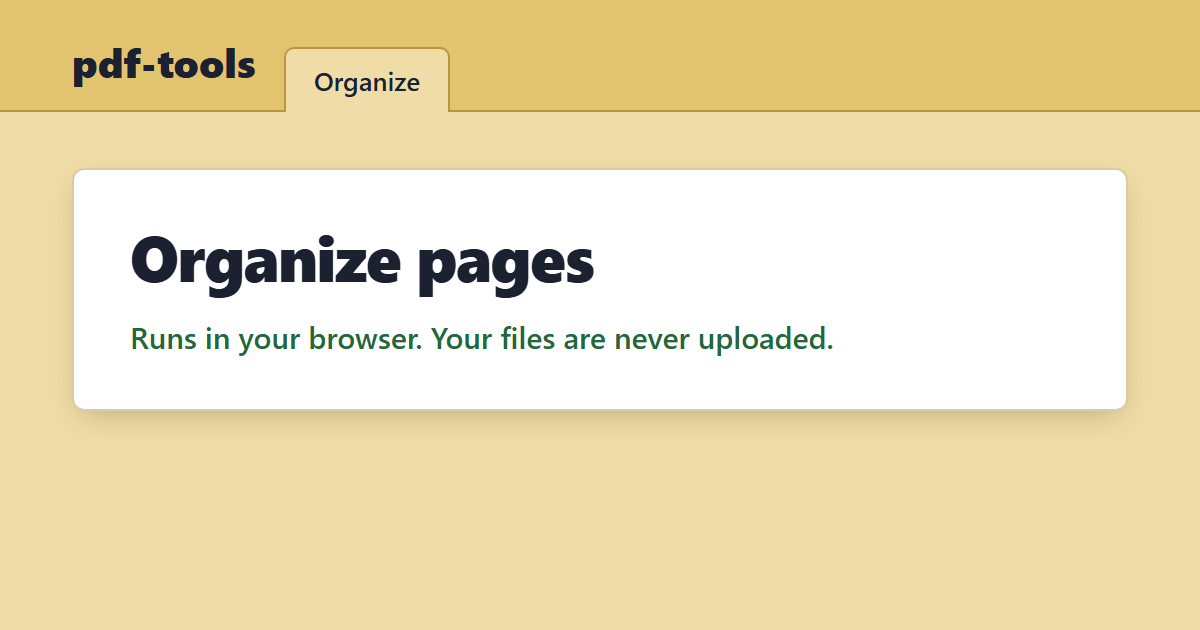
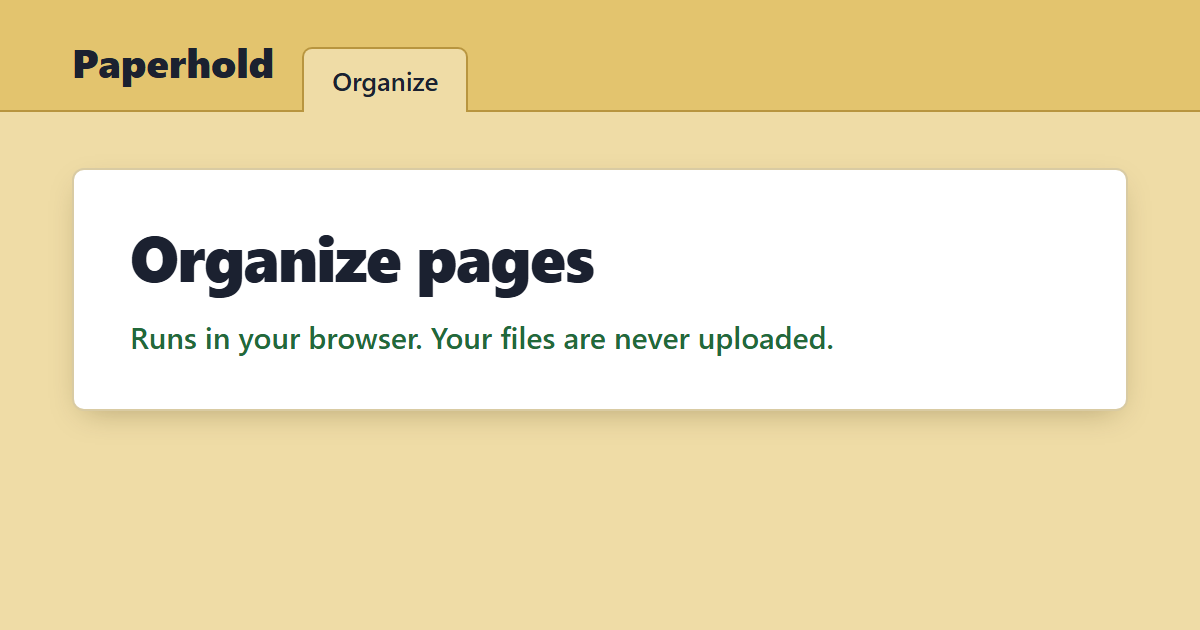
Name the product Paperhold (paperhold.app)
Fill in the launch config: name, production origin, public repo URL and
contact addresses. Rename the Cloudflare Pages project, update user-facing
docs, and regenerate icons, social preview images and screenshots.

`pnpm check:launch` now reports "Launch config OK". The placeholder test
now checks detection with a fixture and asserts the shipped config has
none left.

Changed region(s): [[0.0617, 0.0603, 0.4008, 0.181]]

diff --git a/apps/web/site.config.test.ts b/apps/web/site.config.test.ts
@@ -29,19 +29,18 @@ describe('site config', () => {
   });
 
   it('lists the placeholders that must be replaced before launch', () => {
-    expect(placeholders(SITE_CONFIG)).toEqual([
-      'url',
-      'repoUrl',
-      'contact.security',
-      'contact.conduct',
-    ]);
     expect(
       placeholders({
         ...SITE_CONFIG,
-        url: 'https://pdf.real.org',
-        repoUrl: 'https://github.com/real/pdf',
-        contact: { security: 'sec@real.org', conduct: 'coc@real.org' },
+        url: 'https://pdf-tools.example',
+        repoUrl: 'https://github.com/OWNER/pdf-tools',
+        contact: { security: 'security@pdf-tools.example', conduct: 'conduct@pdf-tools.example' },
       }),
-    ).toEqual([]);
+    ).toEqual(['url', 'repoUrl', 'contact.security', 'contact.conduct']);
+  });
+
+  it('ships the real Paperhold config with no placeholders left', () => {
+    expect(placeholders(SITE_CONFIG)).toEqual([]);
+    expect(resolveSite({}).url).toBe('https://paperhold.app');
   });
 });

diff --git a/apps/web/site.config.ts b/apps/web/site.config.ts
@@ -28,13 +28,13 @@ export interface SiteConfig {
 }
 
 export const SITE_CONFIG: SiteConfig = {
-  name: 'pdf-tools', // PLACEHOLDER: product name
+  name: 'Paperhold',
   tagline: 'Free PDF tools that never upload your files.',
-  url: 'https://pdf-tools.example', // PLACEHOLDER: production origin
-  repoUrl: 'https://github.com/OWNER/pdf-tools', // PLACEHOLDER: public repository
+  url: 'https://paperhold.app',
+  repoUrl: 'https://github.com/AsaPefferman-UI/paperhold',
   contact: {
-    security: 'security@pdf-tools.example', // PLACEHOLDER
-    conduct: 'conduct@pdf-tools.example', // PLACEHOLDER
+    security: 'security@paperhold.app',
+    conduct: 'conduct@paperhold.app',
   },
   // Analytics are OFF unless you opt in. To enable Cloudflare Web Analytics:
   //   analytics: { provider: 'cloudflare', token: '<beacon token>' },

diff --git a/README.md b/README.md
@@ -1,4 +1,4 @@
-# pdf-tools
+# Paperhold
 
 Free, open-source PDF tools that run **entirely in your browser**. Merge, split, compress,
 convert, sign, and OCR PDFs without installing anything and without uploading your files to
@@ -6,8 +6,8 @@ anyone, including us.
 
 ![The Merge tool with two PDFs ready to combine](docs/screenshot-merge.png)
 
-> `pdf-tools` is a working name. To rename or re-domain the site, edit
-> `apps/web/site.config.ts` (one file) and follow [docs/LAUNCH.md](docs/LAUNCH.md).
+> Live at [paperhold.app](https://paperhold.app). Forks can rename or re-domain the site by
+> editing `apps/web/site.config.ts` (one file); see [docs/LAUNCH.md](docs/LAUNCH.md).
 
 ## Why you can trust it with private documents
 
@@ -31,7 +31,7 @@ See [docs/STATUS.md](docs/STATUS.md) for exactly what is done and verified.
 ## Run it locally (5 commands)
 
 ```sh
-git clone <this repository> pdf-tools && cd pdf-tools
+git clone https://github.com/AsaPefferman-UI/paperhold.git && cd paperhold
 corepack pnpm install          # or: npx pnpm@10.34.9 install
 corepack pnpm build
 corepack pnpm preview          # http://localhost:3103 with production headers

diff --git a/SECURITY.md b/SECURITY.md
@@ -1,6 +1,6 @@
 # Security policy
 
-pdf-tools processes every file in your browser. Its core promise is that files never leave your
+Paperhold processes every file in your browser. Its core promise is that files never leave your
 device. Anything that could break that promise is a vulnerability we want to hear about.
 
 ## Reporting a vulnerability

diff --git a/PRODUCT.md b/PRODUCT.md
@@ -55,7 +55,7 @@ DevTools and enforced by an automated test.
 
 ## Brand Commitments
 
-Codename `pdf-tools` is a placeholder name. No logo, palette, or voice has been committed.
+Product name: Paperhold (paperhold.app). No logo, palette, or voice beyond the shipped design has been committed.
 Open source under AGPL-3.0.
 
 ## Evidence on Hand

diff --git a/CONTRIBUTING.md b/CONTRIBUTING.md
@@ -1,6 +1,6 @@
 # Contributing
 
-Thanks for helping. pdf-tools is free, private, and runs entirely in the browser; every change
+Thanks for helping. Paperhold is free, private, and runs entirely in the browser; every change
 must keep it that way.
 
 ## Setup
